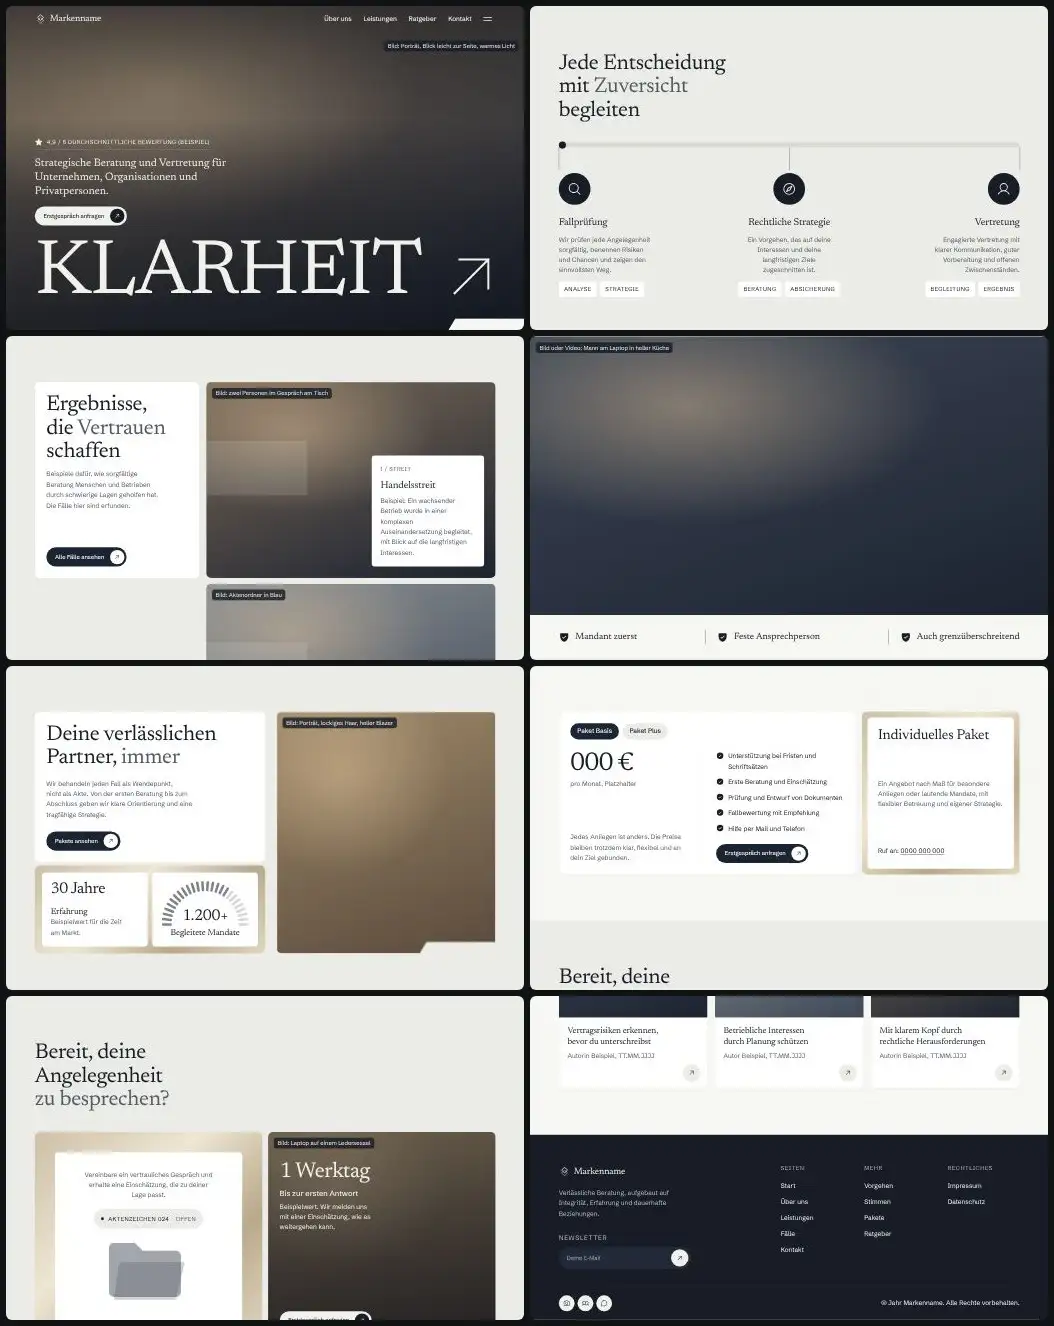
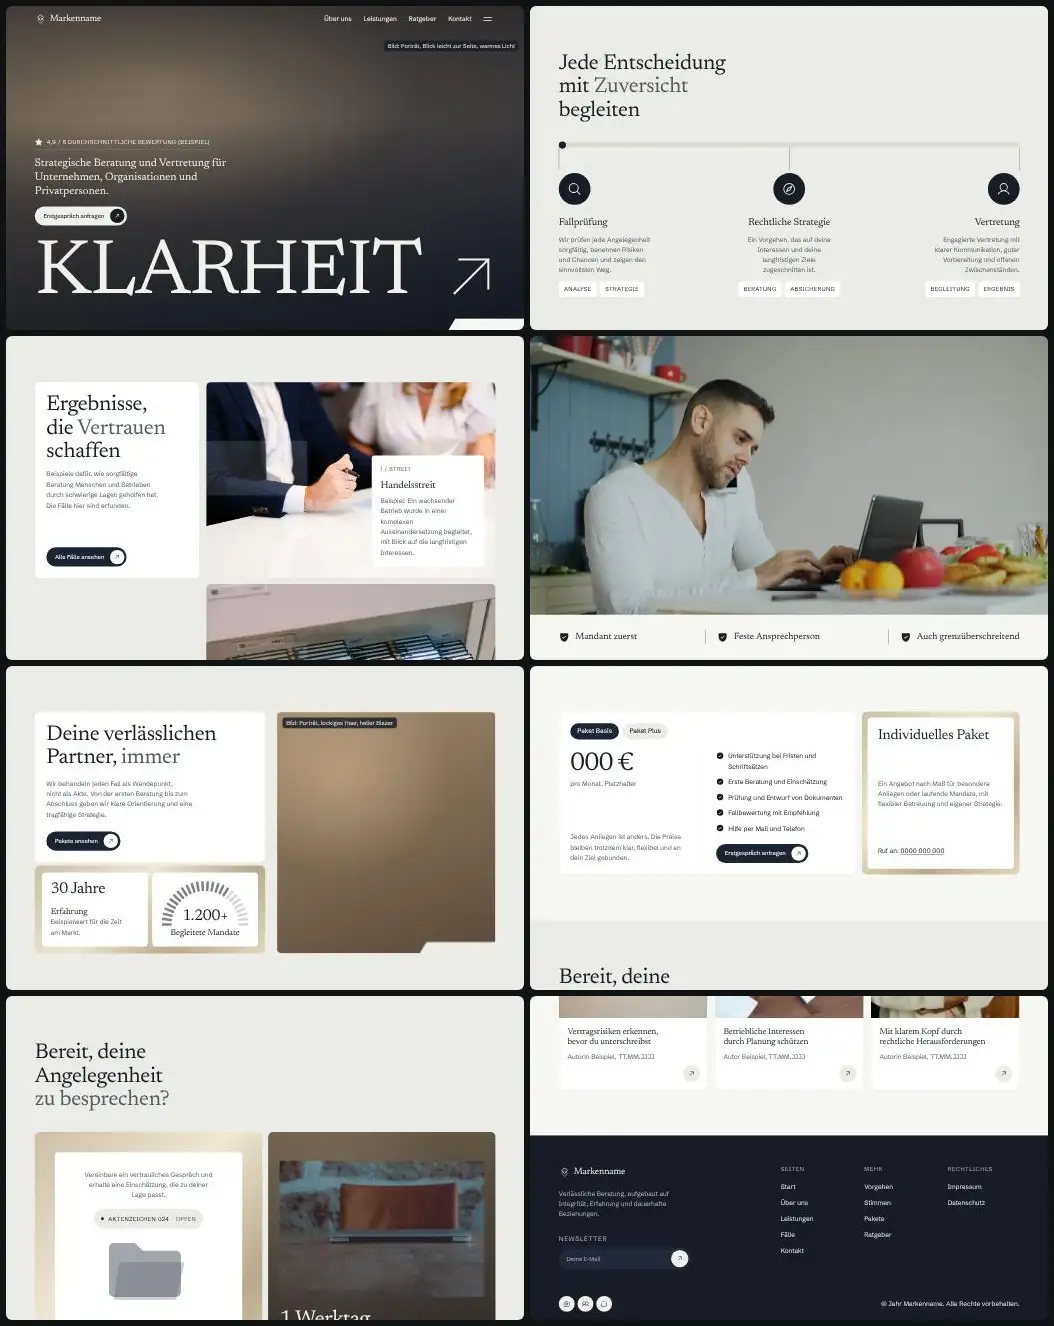
Bibliothek t66: Beispielfotos (Unsplash) eingebaut, Vorschaubilder neu erzeugt
Claude-Session: https://claude.ai/code/session_01DoGuL1bwF3ewggMgZ4Cpvd

diff --git a/skills/webdesign-conversion/assets/vorlagen/bibliothek/t66/index.html b/skills/webdesign-conversion/assets/vorlagen/bibliothek/t66/index.html
@@ -179,11 +179,11 @@
       </div>
       <ul class="faelle__liste" data-beispiel>
         <li class="fall">
-          <div class="fall__bild bild bild--a" data-platzhalter="Bild: zwei Personen im Gespräch am Tisch" role="img" aria-label="Platzhalter für ein Bild"></div>
+          <div class="fall__bild bild bild--a"><img src="bilder/fall-tisch-gespraech.webp" width="1000" height="667" alt="Zwei Personen mit Unterlagen an einem weißen Tisch" loading="lazy" decoding="async"></div>
           <article class="fall__info"><p class="fall__art">1 / Streit</p><h3>Handelsstreit</h3><p>Beispiel: Ein wachsender Betrieb wurde in einer komplexen Auseinandersetzung begleitet, mit Blick auf die langfristigen Interessen.</p></article>
         </li>
         <li class="fall">
-          <div class="fall__bild bild bild--d" data-platzhalter="Bild: Aktenordner in Blau" role="img" aria-label="Platzhalter für ein Bild"></div>
+          <div class="fall__bild bild bild--d"><img src="bilder/fall-notizbuecher-blau.webp" width="800" height="533" alt="Blaue und schwarze Ordner in einem weißen Regal" loading="lazy" decoding="async"></div>
           <article class="fall__info"><p class="fall__art">2 / Immobilie</p><h3>Grundstücksfragen</h3><p>Beispiel: Beratung bei Kauf, Vertrag und Abstimmung mit allen Beteiligten bis zur Übergabe.</p></article>
         </li>
         <li class="fall">
@@ -216,7 +216,7 @@
   <!-- 7. Bildfläche, die beim Scrollen bis zur vollen Breite wächst, darunter drei Zusagen -->
   <section class="film" aria-label="Bildfläche">
     <div class="film__rahmen" data-film>
-      <div class="film__bild bild bild--c" data-platzhalter="Bild oder Video: Mann am Laptop in heller Küche" role="img" aria-label="Platzhalter für ein Bild oder Video"></div>
+      <div class="film__bild bild bild--c"><img src="bilder/fall-mann-laptop-kueche.webp" width="1000" height="563" alt="Ein Mann arbeitet am Laptop an einem Küchentisch" loading="lazy" decoding="async"></div>
     </div>
     <div class="wrap">
       <ul class="zusagen">
@@ -312,7 +312,7 @@
             <svg class="mappe" width="220" height="170" viewBox="0 0 220 170" aria-hidden="true" focusable="false"><path d="M0 14a14 14 0 0 1 14-14h58l22 22h92a14 14 0 0 1 14 14v100a14 14 0 0 1-14 14H14a14 14 0 0 1-14-14z" fill="currentColor" opacity=".55"/><path d="M26 66a12 12 0 0 1 12-12h172l-24 104H14z" fill="currentColor" opacity=".3"/></svg>
           </div>
         </div>
-        <div class="aufruf__rechts bild bild--b" data-zeig data-platzhalter="Bild: Laptop auf einem Ledersessel" role="img" aria-label="Platzhalter für ein Bild">
+        <div class="aufruf__rechts bild bild--b" data-zeig><img src="bilder/fall-laptop-leder.webp" width="1000" height="667" alt="Geschlossener Laptop auf einem Tisch vor einer Lederlehne" loading="lazy" decoding="async">
           <div class="aufruf__zahl" data-beispiel>
             <p class="zahl">1 Werktag</p>
             <h3>Bis zur ersten Antwort</h3>
@@ -335,9 +335,9 @@
         <a class="knopf" href="#ratgeber" data-zeig>Alle Beiträge<span class="knopf__pfeil" aria-hidden="true"><svg width="18" height="18" focusable="false"><use href="#i-arrow-up-right"/></svg></span></a>
       </div>
       <ul class="beitraege" data-staffel data-beispiel>
-        <li data-zeig><article class="beitrag"><div class="beitrag__bild bild bild--c" data-platzhalter="Bild: zwei Personen am Fenster mit Unterlagen" aria-hidden="true"></div><h3><a href="#ratgeber">Vertragsrisiken erkennen, bevor du unterschreibst</a></h3><p class="beitrag__meta">Autorin Beispiel, TT.MM.JJJJ</p><span class="rund beitrag__pfeil" aria-hidden="true"><svg width="20" height="20" focusable="false"><use href="#i-arrow-up-right"/></svg></span></article></li>
-        <li data-zeig><article class="beitrag"><div class="beitrag__bild bild bild--d" data-platzhalter="Bild: weißes Buch auf Holztisch" aria-hidden="true"></div><h3><a href="#ratgeber">Betriebliche Interessen durch Planung schützen</a></h3><p class="beitrag__meta">Autor Beispiel, TT.MM.JJJJ</p><span class="rund beitrag__pfeil" aria-hidden="true"><svg width="20" height="20" focusable="false"><use href="#i-arrow-up-right"/></svg></span></article></li>
-        <li data-zeig><article class="beitrag"><div class="beitrag__bild bild bild--a" data-platzhalter="Bild: Hände mit Aktenstapel" aria-hidden="true"></div><h3><a href="#ratgeber">Mit klarem Kopf durch rechtliche Herausforderungen</a></h3><p class="beitrag__meta">Autorin Beispiel, TT.MM.JJJJ</p><span class="rund beitrag__pfeil" aria-hidden="true"><svg width="20" height="20" focusable="false"><use href="#i-arrow-up-right"/></svg></span></article></li>
+        <li data-zeig><article class="beitrag"><div class="beitrag__bild bild bild--c"><img src="bilder/fall-unterlagen-tisch.webp" width="1000" height="667" alt="Zwei Personen mit Unterlagen an einem grauen Tisch" loading="lazy" decoding="async"></div><h3><a href="#ratgeber">Vertragsrisiken erkennen, bevor du unterschreibst</a></h3><p class="beitrag__meta">Autorin Beispiel, TT.MM.JJJJ</p><span class="rund beitrag__pfeil" aria-hidden="true"><svg width="20" height="20" focusable="false"><use href="#i-arrow-up-right"/></svg></span></article></li>
+        <li data-zeig><article class="beitrag"><div class="beitrag__bild bild bild--d"><img src="bilder/fall-buch-holztisch.webp" width="800" height="533" alt="Weißes Buch auf einem Holztisch" loading="lazy" decoding="async"></div><h3><a href="#ratgeber">Betriebliche Interessen durch Planung schützen</a></h3><p class="beitrag__meta">Autor Beispiel, TT.MM.JJJJ</p><span class="rund beitrag__pfeil" aria-hidden="true"><svg width="20" height="20" focusable="false"><use href="#i-arrow-up-right"/></svg></span></article></li>
+        <li data-zeig><article class="beitrag"><div class="beitrag__bild bild bild--a"><img src="bilder/fall-stapel-haende.webp" width="800" height="533" alt="Ein Stapel Bücher oder Akten in den Händen einer Person" loading="lazy" decoding="async"></div><h3><a href="#ratgeber">Mit klarem Kopf durch rechtliche Herausforderungen</a></h3><p class="beitrag__meta">Autorin Beispiel, TT.MM.JJJJ</p><span class="rund beitrag__pfeil" aria-hidden="true"><svg width="20" height="20" focusable="false"><use href="#i-arrow-up-right"/></svg></span></article></li>
       </ul>
     </div>
   </section>

diff --git a/skills/webdesign-conversion/assets/vorlagen/bibliothek/t66/BILDER.md b/skills/webdesign-conversion/assets/vorlagen/bibliothek/t66/BILDER.md
@@ -1,0 +1,25 @@
+# Bilder t66
+
+Alle Fotos von Unsplash, abgerufen am 25.11.2026. Titel und Lizenz stehen so auf der Seite des Fotos (Titel von Unsplash automatisch vergeben), als Fotograf ist das Unsplash Profil angegeben, weil die Seite den Namen nur als Profillink zeigte. Lizenz ist jeweils die Unsplash Lizenz.
+
+| Datei | Platz | Foto Titel | Fotograf (Profil) | Seite | Lizenz | Abruf |
+|---|---|---|---|---|---|---|
+| fall-tisch-gespraech.webp.webp | Fall 1 | Ein Mann und eine Frau sitzen an einem weißen Tisch | @carrieallenllc | https://unsplash.com/photos/1H1LBKvD7ew | Unsplash Lizenz | 25.11.2026 |
+| fall-notizbuecher-blau.webp.webp | Fall 2 | Reihe von Notizbüchern auf einem Regal | @yoonlog | https://unsplash.com/photos/27ONlfrPb2Y | Unsplash Lizenz | 25.11.2026 |
+| fall-mann-laptop-kueche.webp.webp | Film | Mann am Telefon und Laptop am Küchentisch | @silverkblack | https://unsplash.com/photos/8qKi1nt5P2Y | Unsplash Lizenz | 25.11.2026 |
+| fall-laptop-leder.webp.webp | Aufruf | selektive Fokusfotografie eines geschlossenen silbernen MacBooks | @markusspiske | https://unsplash.com/photos/2BMa6LXNZEA | Unsplash Lizenz | 25.11.2026 |
+| fall-unterlagen-tisch.webp.webp | Beitrag 1 | woman signing on white printer paper beside woman about to touch the documents | @gabriellefaithhenderson | https://unsplash.com/photos/HJckKnwCXxQ | Unsplash Lizenz | 25.11.2026 |
+| fall-buch-holztisch.webp.webp | Beitrag 2 | weißes Papier auf braunem Holztisch | @mediamodifier | https://unsplash.com/photos/VLwXSAu2Avk | Unsplash Lizenz | 25.11.2026 |
+| fall-stapel-haende.webp.webp | Beitrag 3 | ein Mann, der einen Stapel Bücher in den Händen hält | @mzynasx | https://unsplash.com/photos/N_WCe64b8qQ | Unsplash Lizenz | 25.11.2026 |
+
+## Hinweise
+
+* Stockpersonen nur als Atmosphäre, keine echten Mandanten oder Berater. Vor Abgabe durch eigene Fotos ersetzen.
+* Keine Erfolgsversprechen im Bildtext.
+* Fall 2 (Notizbücher auf dem Regal) trägt am linken Rand einen roten Ärmel einer Person. Statt blauer Aktenordner sind es blau schwarze Notizbücher.
+* Auf dem Laptop im Aufruf ist kein Logo zu sehen.
+* Die Unsplash Titel passen teils nicht zum Bild, der Alt Text beschreibt, was zu sehen ist.
+
+## Offen
+
+* 4 Porträts (Held, Über uns, Fall 3, Warum)
